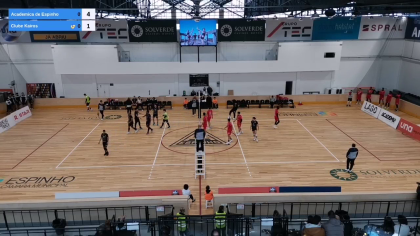
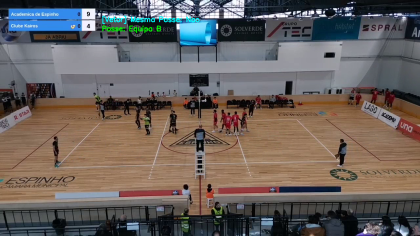
analise

diff --git a/config.py b/config.py
@@ -20,7 +20,7 @@ class Config:
     event_store_file: Path = Path("outputs/volleyball_events.json")
 
     # Time window (absolute timestamps in the video)
-    start_ts: str = "00:37:12"
+    start_ts: str = "00:34:25"
     # start_ts: str = "00:27:21"
     # start_ts: str = "00:29:53"
     end_ts: str = "00:46:17"
